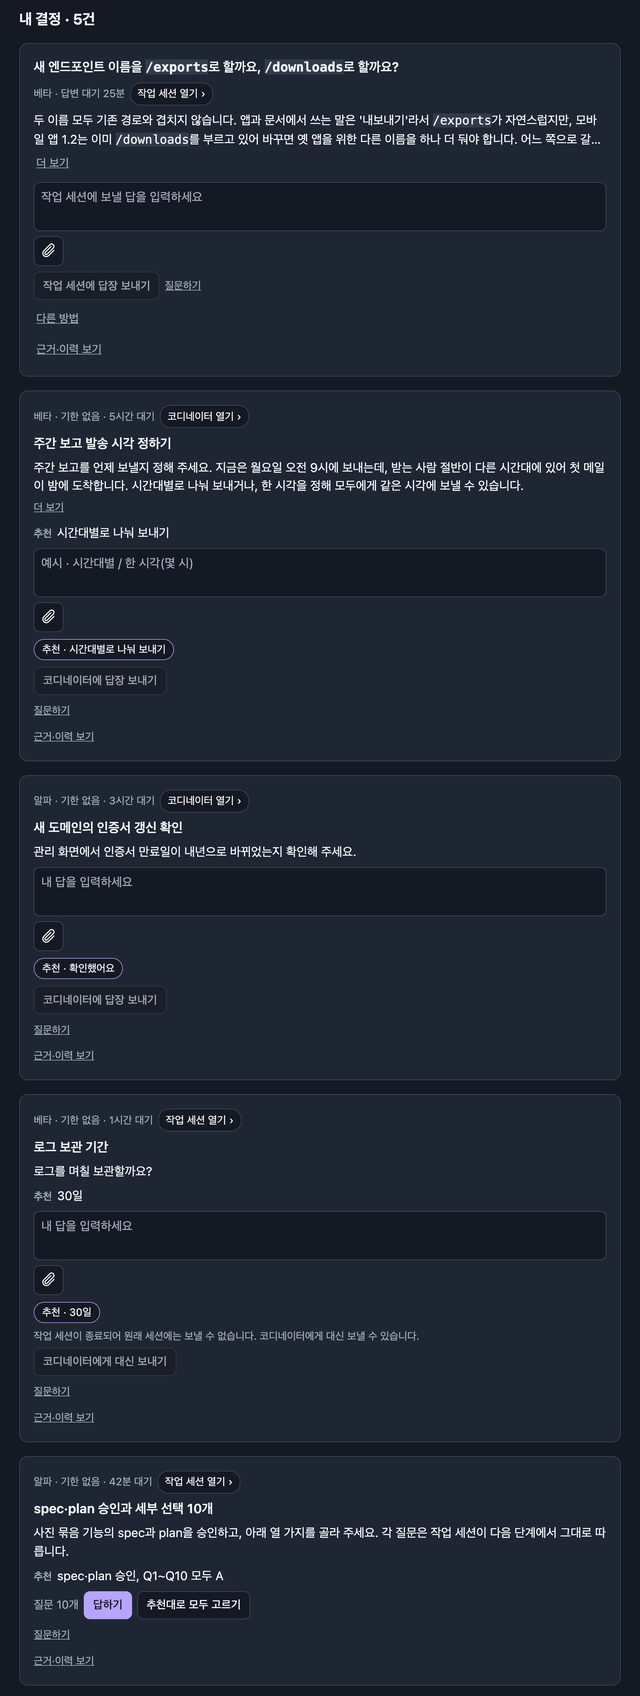
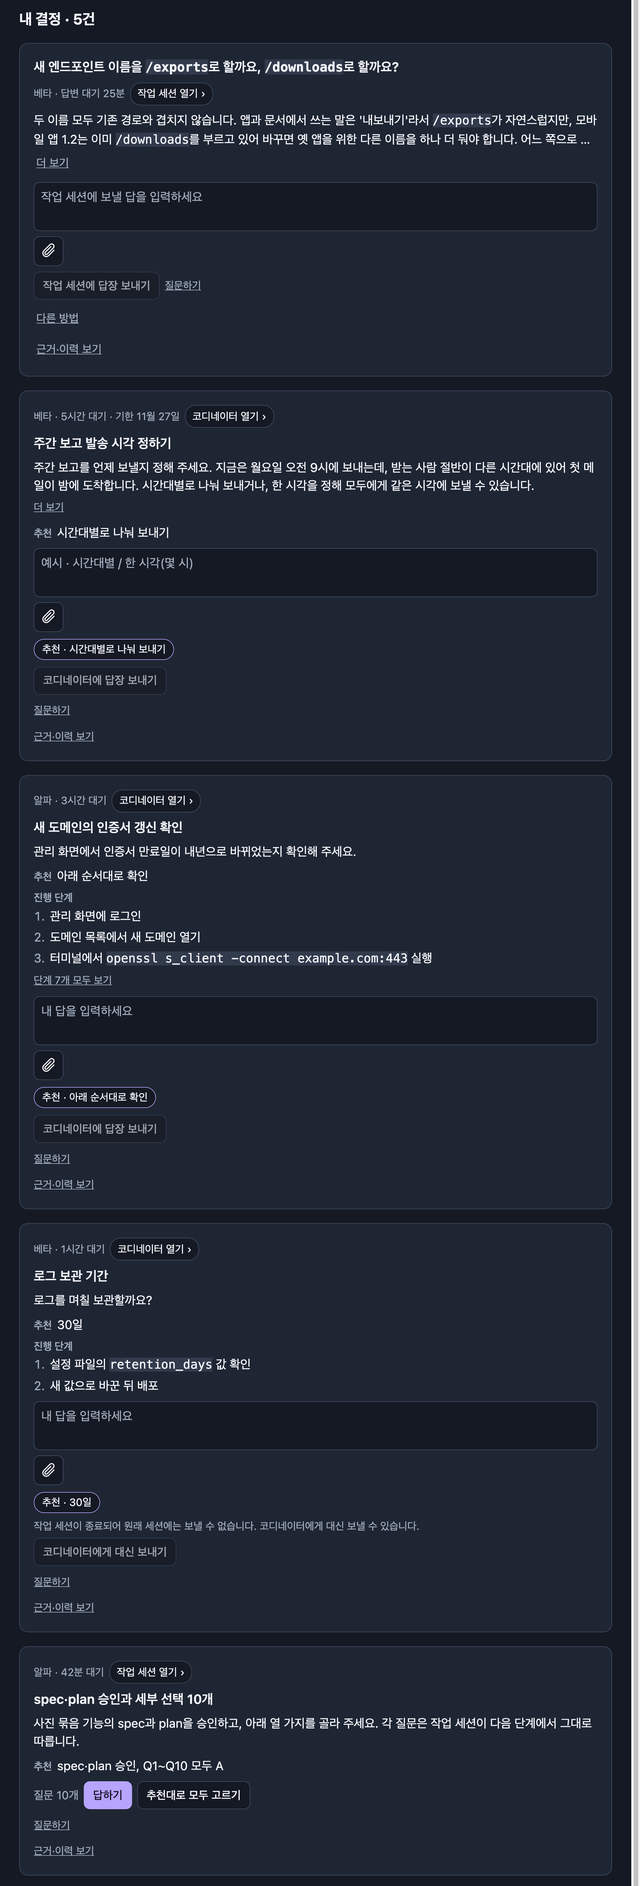
fix: 카드 리뷰 반영(단축키, 막힌 칩, 기한 날짜, 문답 위치)
- 한 질문씩 단계에서 보내기 단축키는 다음 질문으로 이동, 보내기는 요약에서만
- 받을 세션이 막히면 그 칩을 숨기고 열 수 있는 쪽(대신 받을 코디네이터, 살아 있는 작업 세션) 칩만 표시
- 원장 소유 정보가 없는 작업 세션 카드에 대신 받을 코디네이터 링크 연결
- 머리 줄은 대기 시간과 기한(있을 때만, 실제 날짜). 기한 없음 글자 제거
- 문답을 근거·이력 상자 안으로 이동(방금 보낸 질문은 질문하기 옆에 유지)
- 앱 화면 읽기 포커스를 sendAccessibilityEvent 로 짧은 지연 뒤 이동

diff --git a/client/tracked-decisions.tsx b/client/tracked-decisions.tsx
@@ -3,7 +3,7 @@ import { DecisionReplyInput } from "./decision-reply";
 import { SendButton } from "./send-input";
 import { useRpc } from "@getpaseo/plugin/client";
 import { useEffect, useRef, useState, type ReactNode } from "react";
-import { AccessibilityInfo, findNodeHandle, Platform, Pressable, Text, View } from "react-native";
+import { AccessibilityInfo, Platform, Pressable, Text, View } from "react-native";
 import {
   cancelQueuedReply, resolveTrackedDecision, mentionsSecurityGate, trackedAnswerLead, trackedAnswerText, trackedPullTarget, trackedReplyExample, usesSourceCoordinator,
   type TrackedDecision, type TrackedReplyBlock, type TrackedReplyReason, type TrackedReplyRoute,
@@ -20,7 +20,7 @@ import {
 } from "./tracked-reply-draft";
 import {
   advancesOnChoice, answerSummary, clampStep, firstOpenStep, foldsAsk, foldsCard, nextOpenStep, recommendAllPicks, trackedChipSide,
-  trackedReplyOffer, trackedSuggestion, usesSteps, visibleSteps, type Step,
+  recordHeaderParts, trackedReplyOffer, trackedSuggestion, usesSteps, visibleSteps, type Step,
 } from "./card-steps";
 import { ledgerChoiceGaps } from "../shared/choice-gaps";
 import { cardChoiceNotice } from "./choice-display";
@@ -37,8 +37,9 @@ export type TrackedOutcome = {
 // `fingerprint` is the revision on screen at the attempt.
 type Outcome = TrackedOutcome & { fingerprint: string };
 type Props = {
-  item: TrackedDecision; theme: Theme; priorityLabel?: string; route?: TrackedReplyRoute; blockedNote?: string; links: TrackedSessionLinks; children?: ReactNode; pull?: ReactNode;
-  renderClarification?: (onDraftChange:(active:boolean) => void, showHistory: boolean) => ReactNode;
+  item: TrackedDecision; theme: Theme; route?: TrackedReplyRoute; blockedNote?: string; links: TrackedSessionLinks; children?: ReactNode; pull?: ReactNode;
+  // "ask" is the question box beside the reply; "history" is the earlier questions and answers inside the evidence.
+  renderClarification?: (onDraftChange:((active:boolean) => void) | undefined, part: "ask" | "history") => ReactNode;
   // The digest row keeps an unsent reply as a receipt after the card leaves the list.
   keepsUnsent?: boolean;
   onResolved: (outcome: TrackedOutcome) => Promise<void> | void;
@@ -100,16 +101,16 @@ function TextButton({ label, accessibilityLabel, onPress, theme, expanded, disab
   </Pressable>;
 }
 
-// Moves screen reader and keyboard focus to a new question.
-function focusNode(node: unknown) {
+// Moves screen reader and keyboard focus to a new question. On the apps the screen reader is told after the new
+// question has laid out, since focus sent to a view that is still mounting is dropped.
+function focusNode(node: View | null) {
   if (!node) return;
-  if (Platform.OS === "web") { (node as { focus?: () => void }).focus?.(); return; }
-  const handle = findNodeHandle(node as Parameters<typeof findNodeHandle>[0]);
-  if (handle) AccessibilityInfo.setAccessibilityFocus(handle);
+  if (Platform.OS === "web") { (node as unknown as { focus?: () => void }).focus?.(); return; }
+  setTimeout(() => AccessibilityInfo.sendAccessibilityEvent(node, "focus"), 60);
 }
 
 // Keyed by card, not revision, so a display-only update keeps the draft, photos, current question and focus.
-export function TrackedDecisionCard({ item, theme, links, route, blockedNote, onResolved, children, pull, renderClarification, priorityLabel, keepsUnsent }: Props) {
+export function TrackedDecisionCard({ item, theme, links, route, blockedNote, onResolved, children, pull, renderClarification, keepsUnsent }: Props) {
   const { t } = useBoardLanguage();
   const resolve = useRpc(resolveTrackedDecision);
   const cancel = useRpc(cancelQueuedReply);
@@ -208,6 +209,7 @@ export function TrackedDecisionCard({ item, theme, links, route, blockedNote, on
   const unreachable = !offer.form;
   const stepped = usesSteps(item.questions);
   const step = clampStep(rawStep, item.questions.length);
+  const stepping = stepped && step !== "summary";
   const folded = foldsCard(item) && !opened && !hasAnswerDraft && !hasQuestionDraft;
   const inputFocus = useDecisionInteraction(canReply && !queue && !isClosed && !needsRefresh &&
     (hasDraft || editedReply !== null || Object.values(typed).some(value => value !== undefined) ||
@@ -218,7 +220,9 @@ export function TrackedDecisionCard({ item, theme, links, route, blockedNote, on
   const askFolds = foldsAsk(askLines);
   const steps = visibleSteps(item.steps, stepsOpen);
   const otherSide = trackedChipSide(item.where, route, { owner: !!links.owner, source: links.source?.kind });
+  // The evidence keeps the session links the header does not show, including one that can no longer take replies.
   const evidenceSide = otherSide === "owner" ? "source" : otherSide === "source" ? "owner" : undefined;
+  const evidenceLinks = !!(evidenceSide ? (evidenceSide === "owner" ? links.owner : links.source) : links.owner || links.source);
 
   useEffect(() => { if (moves) focusNode(questionHead.current); }, [moves]);
 
@@ -352,7 +356,9 @@ export function TrackedDecisionCard({ item, theme, links, route, blockedNote, on
     // Photos or a skip keep the extras open, so what the reply carries stays in view.
     const extrasHeld = photoCount(index) > 0 || !!skipped[index];
     const extrasOpen = !!more[index] || extrasHeld;
-    const input = <DecisionReplyInput {...inputFocus} send={sendReply} theme={theme} value={questionText[index]} disabled={busy} maxLength={4000}
+    // While answering one question at a time, the send shortcut moves to the next question. Sending waits for the summary.
+    const input = <DecisionReplyInput {...inputFocus} send={stepping ? { disabled: busy || !answered[index], onPress: () => go(nextOpenStep(answered, index)) } : sendReply}
+      theme={theme} value={questionText[index]} disabled={busy} maxLength={4000}
       accessibilityLabel={item.title + " · " + question.text + " · " + t("답장 내용", "Reply text")}
       onChangeText={text => { setTyped(previous => ({...previous,[index]:text})); setSelected(previous => ({...previous,[index]:[]})); }}
       placeholder={hasOptions ? t("선택하거나 직접 답을 입력하세요", "Choose an option or write your reply") : t("내 답을 입력하세요", "Write your reply")} />;
@@ -430,7 +436,7 @@ export function TrackedDecisionCard({ item, theme, links, route, blockedNote, on
 
   return <View style={{ gap: 7 }}>
     <View style={{ ...wrap, alignItems: "center" }}>
-      <Text selectable style={{ color: c.foregroundMuted, fontSize: 12 }}>{[source || t("보드 공통", "Board-wide"), priorityLabel].filter(Boolean).join(" · ")}</Text>
+      <Text selectable style={{ color: c.foregroundMuted, fontSize: 12 }}>{[source || t("보드 공통", "Board-wide"), ...recordHeaderParts(item, t)].join(" · ")}</Text>
       {otherSide && <TrackedSessionChips title={item.title} theme={theme} links={links} side={otherSide} role />}
     </View>
     <HistoryMarkdown theme={theme} source={isMerge ? t("PR 병합", "PR merge") : item.title} pullRepository={pullRepository} heading />
@@ -503,7 +509,7 @@ export function TrackedDecisionCard({ item, theme, links, route, blockedNote, on
           {t("질문이 생기기 전에 쓴 답입니다. 질문의 답과 함께 보내니 고치거나 빼 주세요.", "You wrote this before the card had questions. It is sent with your answers, so edit or remove it.")}
         </Text>}
         <PhotoComposer theme={theme} disabled={busy} draft={attachments}>
-          <DecisionReplyInput {...inputFocus} send={sendReply} theme={theme}
+          <DecisionReplyInput {...inputFocus} send={stepping ? { disabled: true, onPress: () => {} } : sendReply} theme={theme}
             accessibilityLabel={item.title + " · " + (carried ? t("질문이 생기기 전에 쓴 답", "Reply written before the questions") : t("답장 내용", "Reply text"))}
             value={freeReply} disabled={busy} maxLength={4000} onChangeText={value => setEditedReply(value)}
             placeholder={example ? t("예시 · ", "Example · ") + example : t("내 답을 입력하세요", "Write your reply")} />
@@ -562,12 +568,12 @@ export function TrackedDecisionCard({ item, theme, links, route, blockedNote, on
         </View>}
       </View>}
     </View>}
-    {canReply && showForm && renderClarification && <View style={{ ...wrap, alignItems: "center" }}>{renderClarification(setHasQuestionDraft, expanded)}</View>}
+    {canReply && showForm && renderClarification && <View style={{ ...wrap, alignItems: "center" }}>{renderClarification(setHasQuestionDraft, "ask")}</View>}
     <TextButton theme={theme} expanded={expanded} label={expanded ? t("근거·이력 접기", "Hide evidence and history") : t("근거·이력 보기", "Evidence and history")}
       accessibilityLabel={named(expanded ? t("결정 상세 접기", "Hide decision details") : t("결정 상세 보기", "View decision details")).accessibilityLabel}
       onPress={() => setExpanded(value => !value)} />
     {expanded && <View style={{ gap: 8, padding: 8, borderRadius: 7, backgroundColor: c.surface0 }}>
-      {evidenceSide && <View style={{ ...wrap, alignItems: "center" }}><TrackedSessionChips title={item.title} theme={theme} links={links} side={evidenceSide} /></View>}
+      {evidenceLinks && <View style={{ ...wrap, alignItems: "center" }}><TrackedSessionChips title={item.title} theme={theme} links={links} side={evidenceSide} /></View>}
       {links.owner && item.sourceCoordinatorId && <Text selectable style={{color:c.foregroundMuted,fontSize:12}}>
         {t("운영 코디네이터 세션 ID","Operating coordinator session ID")} · {item.sourceCoordinatorId}
       </Text>}
@@ -590,6 +596,7 @@ export function TrackedDecisionCard({ item, theme, links, route, blockedNote, on
           <Text selectable style={{ color: c.foregroundMuted }}>{entry.a ? [t("답", "Answer"), entry.answeredAt, entry.a].filter(Boolean).join(" · ") : t("답변 대기", "Awaiting reply")}</Text>
         </View>)}
       </View>}
+      {canReply && showForm && renderClarification?.(undefined, "history")}
       <Lines theme={theme} pullRepository={pullRepository} title={t("이전 답변", "Previous replies")} lines={item.replyHistory.map(entry => [entry.at, entry.text].filter(Boolean).join(" · "))} />
     </View>}
     {notice && <Text accessibilityLiveRegion="polite" style={{ color: isClosed ? c.statusSuccess : c.statusWarning }}>{notice}</Text>}

diff --git a/client/board.tsx b/client/board.tsx
@@ -212,18 +212,18 @@ export function BoardView({ snapshot, readiness, theme, layout, hostLabel, hostI
     setInlineReceipts(previous => previous.some(entry => entry.actionKey === action.actionKey && entry.rowKey === action.rowKey)
       ? previous : [...previous, { ...action, order: orderedKeys }]);
   }
-  function questionFor(card: ClarificationCard | null, title: string, prior?: TrackedDecision["qa"], onDraftChange?: (active:boolean) => void, ownerId?: string | null, notice?: ChoiceNotice | null, showHistory = true) {
+  function questionFor(card: ClarificationCard | null, title: string, prior?: TrackedDecision["qa"], onDraftChange?: (active:boolean) => void, ownerId?: string | null, notice?: ChoiceNotice | null, part: "all" | "ask" | "history" = "all") {
     if (!snapshot) return null;
     const recipientId = card ? clarificationRecipient(card, snapshot) : null;
     const recipientTitle = ownerId && ownerId === recipientId ? t("운영 코디네이터", "Ledger owner") + " · " + ownerId
       : snapshot.sessions.find(row => row.id === recipientId)?.title;
     const toCoordinator = !!recipientId && (recipientId === snapshot.coordinator || recipientId === ownerId);
     return <Clarification key={card ? clarificationKey(card) : title} title={title} card={card} theme={theme} suggestion={choiceRequest(notice ?? null, toCoordinator)}
-      recipientId={recipientId} recipientTitle={recipientTitle} entries={snapshot.clarifications ?? []} prior={prior} onRefresh={onRefresh} onDraftChange={onDraftChange} showHistory={showHistory} />;
+      recipientId={recipientId} recipientTitle={recipientTitle} entries={snapshot.clarifications ?? []} prior={prior} onRefresh={onRefresh} onDraftChange={onDraftChange} part={part} />;
   }
   const renderDecision = (card: Card, embedded = false, rowKey?: string, priority?: string) => <DecisionActions key={JSON.stringify([card.session.projectId, card.session.id, card.session.decision?.version])}
-          clarification={embedded ? undefined : showHistory => questionFor(sessionClarificationCard(card.session,card.note),card.session.title,undefined,undefined,undefined,
-            card.session.decision?.source === "conversation" ? decisionChoiceNotice(card.session.decision) : null, showHistory)}
+          clarification={embedded ? undefined : part => questionFor(sessionClarificationCard(card.session,card.note),card.session.title,undefined,undefined,undefined,
+            card.session.decision?.source === "conversation" ? decisionChoiceNotice(card.session.decision) : null, part)}
           embedded={embedded} priorityLabel={priority} card={card} hostLabel={card.session.assignment?.label ?? hostLabel} theme={theme} coordinator={snapshot!.coordinator} coordinatorTitle={snapshot!.sessions.find(s => s.id === snapshot!.coordinator)?.title}
           open={actions.onOpen} receipt={receipts.find(r => matches(r, card))}
           pendingRequests={card.session.nativePending && !card.session.serverId && hostId ? <PendingRequests key={JSON.stringify([hostId, card.session.id])} hostId={hostId}
@@ -240,9 +240,11 @@ export function BoardView({ snapshot, readiness, theme, layout, hostLabel, hostI
             setReceipts(prior => [result, ...prior.filter(r => !(r.projectId === result.projectId && r.sessionId === result.sessionId))].slice(0, 20));
             onRefresh();
           }} />;
-  function recordLinks(item: TrackedDecision, showSource = true): TrackedSessionLinks {
+  // `fallbackId` is the coordinator a work session card's reply goes to instead. With no ledger owner, its chip is the
+  // owner link, so a card whose work session ended can still open the session that would take the reply.
+  function recordLinks(item: TrackedDecision, showSource = true, fallbackId?: string | null): TrackedSessionLinks {
     if (!snapshot) return {};
-    const ownerId = trackedSessionOwner(item, snapshot.coordinator);
+    const ownerId = trackedSessionOwner(item, snapshot.coordinator) ?? fallbackId ?? undefined;
     const open = actions.onOpen;
     const listed = snapshot.sessions.some(session => session.id === ownerId);
     const owner = ownerId && open && (ownerId === snapshot.coordinator || listed || hostId) ? {
@@ -302,9 +304,9 @@ export function BoardView({ snapshot, readiness, theme, layout, hostLabel, hostI
           const route = native && !item.questions.length ? undefined : trackedReplyRoute(item,snapshot!.coordinator,snapshot!.sessions,folders);
           // A card offers its fallback only when it has no recipient.
           const reaches = route?.recipientId ?? route?.fallbackId;
-          return <TrackedDecisionCard links={recordLinks(item, !native)} key={item.key} item={item} theme={theme} priorityLabel={priority}
-            renderClarification={(onDraftChange, showHistory) => questionFor(trackedClarificationCard(item,snapshot!.sessions),item.title,item.qa,onDraftChange,usesSourceCoordinator(item) ? item.sourceCoordinatorId : undefined,
-              item.kind === "merge" ? null : cardChoiceNotice(ledgerChoiceGaps(item)), showHistory)}
+          return <TrackedDecisionCard links={recordLinks(item, !native, route?.fallbackId)} key={item.key} item={item} theme={theme}
+            renderClarification={(onDraftChange, part) => questionFor(trackedClarificationCard(item,snapshot!.sessions),item.title,item.qa,onDraftChange,usesSourceCoordinator(item) ? item.sourceCoordinatorId : undefined,
+              item.kind === "merge" ? null : cardChoiceNotice(ledgerChoiceGaps(item)), part)}
             pull={rowKey && item.mergeTarget && scopedReceipts.some(receipt => receipt.rowKey === rowKey && receipt.actionKey === pullRowKey(item.mergeTarget!)) ? <></>
               : pr && renderPull(pr, pr.projectIds.includes(item.projectId ?? "") ? item.projectId! : pr.projectIds[0], true, mentionsSecurityGate(item), true, rowKey, [item.projectId])}
             route={route} keepsUnsent={!!rowKey}

diff --git a/client/clarification.tsx b/client/clarification.tsx
@@ -14,14 +14,15 @@ import type { ChoiceRequest } from "./choice-display";
 type Props = {
   card: ClarificationCard | null; title: string; theme: Theme; recipientId: string | null; recipientTitle?: string;
   entries: ClarificationEntry[]; prior?: TrackedDecision["qa"]; onRefresh: () => void; onDraftChange?: (active:boolean) => void;
-  // A card folds its questions and answers into its evidence. The thread shows when that is open, or once the person
-  // asks here, so the answer is not missed.
-  showHistory?: boolean;
+  // A card can split the box: "ask" is the button and editor beside the reply, and "history" is the earlier questions
+  // and answers inside the card's evidence. A question asked in "ask" stays there until the board lists it, so its
+  // answer is not missed.
+  part?: "all" | "ask" | "history";
   /** A ready question this card suggests. The button only fills the box; the person sends it. */
   suggestion?: ChoiceRequest | null;
 };
 
-export function Clarification({card,title,theme,recipientId,recipientTitle,entries,prior = [],onRefresh,onDraftChange,suggestion,showHistory = true}:Props) {
+export function Clarification({card,title,theme,recipientId,recipientTitle,entries,prior = [],onRefresh,onDraftChange,suggestion,part = "all"}:Props) {
   const {t} = useBoardLanguage();
   const ask = useRpc(askClarification);
   const photos = usePhotoDraft();
@@ -77,6 +78,21 @@ export function Clarification({card,title,theme,recipientId,recipientTitle,entri
     } catch { setError(true); }
     finally { sending.current = false; setBusy(false); onRefresh(); }
   }
+  const historyBox = (history.length > 0 || prior.length > 0) && <View style={{width:"100%",gap:7,padding:8,borderRadius:6,backgroundColor:c.surface0}}>
+      <Text accessibilityRole="header" style={{color:c.foreground,fontWeight:"600"}}>{t("문답","Questions and answers")}</Text>
+      {hidden > 0 && <Button theme={theme} label={t(`이전 문답 더 보기 · ${hidden}건`, `Show earlier questions · ${hidden}`)} onPress={() => setVisibleCount(count => count + 5)} />}
+      {prior.slice(hidden).map((row,index) => <View key={index+hidden} style={{gap:2}}>
+        <HistoryMarkdown theme={theme} source={"Q. " + row.q} />
+        {row.a ? <HistoryMarkdown theme={theme} source={"A. " + row.a} /> : <Text style={{color:c.foregroundMuted}}>{t("답변 대기","Awaiting reply")}</Text>}
+      </View>)}
+      {history.slice(Math.max(0,hidden-prior.length)).map(entry => <View key={entry.messageId} style={{gap:2}}>
+        {!!entry.question && <HistoryMarkdown theme={theme} source={"Q. " + entry.question} />}
+        {!!entry.imageCount && <Text style={{color:c.foregroundMuted,fontSize:12}}>{t(`질문에 첨부한 사진 ${entry.imageCount}장`, `${entry.imageCount} photo(s) attached to question`)}</Text>}
+        {entry.response ? <HistoryMarkdown theme={theme} source={"A. " + entry.response} />
+          : <Text accessibilityLiveRegion="polite" style={{color:c.foregroundMuted}}>{entry.status === "pending" ? t("전송 확인 중","Confirming delivery") : t("답변 대기","Awaiting reply")}</Text>}
+      </View>)}
+    </View>;
+  if (part === "history") return historyBox || null;
   return <>
     {/* A small text button: asking first is the less common path beside the reply. */}
     <Pressable accessibilityRole="button" accessibilityLabel={label("질문하기", "Ask a question")} accessibilityState={{expanded,disabled:busy || photos.reading}}
@@ -99,19 +115,6 @@ export function Clarification({card,title,theme,recipientId,recipientTitle,entri
           send={sendQuestion} selected /></View>
       </>}
     </View>}
-    {(showHistory || sent.length > 0) && (history.length > 0 || prior.length > 0) && <View style={{width:"100%",gap:7,padding:8,borderRadius:6,backgroundColor:c.surface0}}>
-      <Text accessibilityRole="header" style={{color:c.foreground,fontWeight:"600"}}>{t("문답","Questions and answers")}</Text>
-      {hidden > 0 && <Button theme={theme} label={t(`이전 문답 더 보기 · ${hidden}건`, `Show earlier questions · ${hidden}`)} onPress={() => setVisibleCount(count => count + 5)} />}
-      {prior.slice(hidden).map((row,index) => <View key={index+hidden} style={{gap:2}}>
-        <HistoryMarkdown theme={theme} source={"Q. " + row.q} />
-        {row.a ? <HistoryMarkdown theme={theme} source={"A. " + row.a} /> : <Text style={{color:c.foregroundMuted}}>{t("답변 대기","Awaiting reply")}</Text>}
-      </View>)}
-      {history.slice(Math.max(0,hidden-prior.length)).map(entry => <View key={entry.messageId} style={{gap:2}}>
-        {!!entry.question && <HistoryMarkdown theme={theme} source={"Q. " + entry.question} />}
-        {!!entry.imageCount && <Text style={{color:c.foregroundMuted,fontSize:12}}>{t(`질문에 첨부한 사진 ${entry.imageCount}장`, `${entry.imageCount} photo(s) attached to question`)}</Text>}
-        {entry.response ? <HistoryMarkdown theme={theme} source={"A. " + entry.response} />
-          : <Text accessibilityLiveRegion="polite" style={{color:c.foregroundMuted}}>{entry.status === "pending" ? t("전송 확인 중","Confirming delivery") : t("답변 대기","Awaiting reply")}</Text>}
-      </View>)}
-    </View>}
+    {(part === "all" || sent.length > 0) && historyBox}
   </>;
 }

diff --git a/test/card-steps.test.ts b/test/card-steps.test.ts
@@ -3,7 +3,7 @@ import { readdirSync, readFileSync } from "node:fs";
 import { join } from "node:path";
 import {
   advancesOnChoice, answerSummary, clampStep, firstOpenStep, foldsAsk, foldsCard, isHumanCheck, nextOpenStep, recommendAllPicks,
-  trackedChipSide, trackedReplyOffer, trackedSuggestion, usesSteps, visibleSteps,
+  recordHeaderParts, trackedChipSide, trackedReplyOffer, trackedSuggestion, usesSteps, visibleSteps,
 } from "../client/card-steps";
 import { optionId } from "../client/tracked-reply-draft";
 import { trackedDecisionSchema, type TrackedDecision } from "../shared/tracked-decisions";
@@ -115,7 +115,10 @@ test("the card shows one chip: the session that takes the reply, or the one that
     ({ targetId: recipientId, recipientId, fallbackId, ...(blocked ? { blocked } : {}) }) as Parameters<typeof trackedChipSide>[1];
   // A coordinator card opens the coordinator. The work session moves to the evidence.
   expect(trackedChipSide("manager", route("owner"), both)).toBe("owner");
-  expect(trackedChipSide("human", route(null, "closed"), both)).toBe("owner");
+  // A coordinator that cannot take the reply loses its chip. The work session can still be opened.
+  expect(trackedChipSide("human", route(null, "closed"), both)).toBe("source");
+  expect(trackedChipSide("manager", route(null, "error"), { owner: true, source: undefined })).toBeNull();
+  expect(trackedChipSide("manager", route(null, "error"), { owner: true, source: "unavailable" })).toBeNull();
   expect(trackedChipSide("human", route(null, "owner-unverified"), { owner: false, source: "local" })).toBe("source");
   // A work session card opens the work session.
   expect(trackedChipSide("session", route("worker"), both)).toBe("source");
@@ -126,7 +129,9 @@ test("the card shows one chip: the session that takes the reply, or the one that
   expect(trackedChipSide("session", route(null, "other-host", "owner"), { owner: true, source: "remote" })).toBe("source");
   expect(trackedChipSide("session", route(null, "other-project", "owner"), both)).toBe("source");
   expect(trackedChipSide("session", route(null, "other-host", "owner"), { owner: true, source: "unavailable" })).toBe("owner");
-  expect(trackedChipSide("session", route(null, "closed"), { owner: false, source: "local" })).toBe("source");
+  // An ended work session keeps no chip of its own. With no coordinator to open, only the reason shows.
+  expect(trackedChipSide("session", route(null, "closed"), { owner: false, source: "local" })).toBeNull();
+  expect(trackedChipSide("session", route(null, "error", "owner"), { owner: true, source: "local" })).toBe("owner");
   expect(trackedChipSide("session", undefined, { owner: false, source: undefined })).toBeNull();
 });
 
@@ -176,4 +181,21 @@ test("steps sit under the recommendation and leave the folded evidence", () => {
   // Rendered right after the one-line recommendation, before the reply form.
   expect(face.indexOf("steps.shown.map")).toBeGreaterThan(face.indexOf('t("추천", "Recommendation")'));
   expect(face.indexOf("steps.shown.map")).toBeLessThan(face.indexOf("{queue && <View"));
+});
+
+test("the header shows how long the card waited and its due date only when it has one", () => {
+  const now = new Date(2026, 10, 25, 12, 0).getTime();
+  const at = (days: number, hours = 0) => new Date(2026, 10, 25 + days, 12 + hours).toISOString();
+  expect(recordHeaderParts({ since: at(0, -3), dueAt: null }, ko, now)).toEqual(["3시간 대기"]);
+  expect(recordHeaderParts({ since: at(0, -3), dueAt: null }, en, now)).toEqual(["waiting 3h"]);
+  // No due date: no "No deadline" text.
+  expect(recordHeaderParts({ since: undefined, dueAt: undefined }, ko, now)).toEqual([]);
+  expect(recordHeaderParts({ since: undefined, dueAt: "2026-11-27" }, ko, now)).toEqual(["기한 11월 27일"]);
+  expect(recordHeaderParts({ since: undefined, dueAt: "2026-11-27" }, en, now)).toEqual(["Due Nov 27"]);
+  // A date-only due day is not overdue until the day ends.
+  expect(recordHeaderParts({ since: undefined, dueAt: "2026-11-25" }, ko, now)).toEqual(["기한 11월 25일"]);
+  expect(recordHeaderParts({ since: undefined, dueAt: "2026-11-24" }, en, now)).toEqual(["Overdue · Nov 24"]);
+  const timed = new Date(2026, 10, 25, 15, 30).toISOString();
+  expect(recordHeaderParts({ since: undefined, dueAt: timed }, ko, now)).toEqual(["기한 11월 25일 15:30"]);
+  expect(recordHeaderParts({ since: at(-2), dueAt: "not a date" }, ko, now)).toEqual(["2일 대기"]);
 });

diff --git a/client/card-steps.ts b/client/card-steps.ts
@@ -1,4 +1,5 @@
 import type { TrackedDecision, TrackedReplyRoute } from "../shared/tracked-decisions";
+import { dueTime, waitStart } from "../shared/decision-priority";
 import { optionId, recommendedChoices, recommendedTrackedReply } from "./tracked-reply-draft";
 
 type Translate = (korean: string, english: string) => string;
@@ -84,19 +85,18 @@ type Sources = { owner: boolean; source: "local" | "remote" | "unavailable" | un
 // A blocked work session that is still alive elsewhere can be opened to answer there.
 const reachable = new Set(["other-host", "other-project"]);
 
-// Which session the card's one chip opens. It is the session that takes the reply. When that session cannot,
-// the chip opens the one that still can: the coordinator a fallback goes to, or a live session elsewhere.
+// Which session the card's one chip opens. It is the session that takes the reply. When that session cannot, its chip
+// is hidden and the chip opens the one that still can: the coordinator a redirected reply goes to (the owner link), or
+// a live work session on another host or project. With neither, the card shows only the reason.
 export function trackedChipSide(where: TrackedDecision["where"], route: TrackedReplyRoute | undefined, links: Sources): "owner" | "source" | null {
-  const source = links.source && links.source !== "unavailable";
-  const pick = (first: "owner" | "source") => {
-    const available = { owner: links.owner, source };
-    const other = first === "owner" ? "source" : "owner";
-    return available[first] ? first : available[other] ? other : null;
-  };
-  if (where === "manager" || where === "human") return pick("owner");
+  const source = !!links.source && links.source !== "unavailable";
   const blocked = route?.blocked;
-  if (!blocked || reachable.has(blocked)) return pick("source");
-  return pick("owner");
+  if (where === "manager" || where === "human") {
+    if (!blocked) return links.owner ? "owner" : source ? "source" : null;
+    return source ? "source" : null;
+  }
+  if (!blocked || reachable.has(blocked)) return source ? "source" : links.owner ? "owner" : null;
+  return links.owner ? "owner" : null;
 }
 
 // What a card offers for its reply. The board only sends: to the session that takes the reply, or, when that session
@@ -112,4 +112,29 @@ export function trackedReplyOffer(route: Pick<TrackedReplyRoute, "recipientId" |
 export function visibleSteps(steps: readonly string[], expanded: boolean) {
   if (expanded || steps.length <= 5) return { shown: [...steps], more: 0 };
   return { shown: steps.slice(0, 3), more: steps.length };
+}
+
+const months = ["Jan", "Feb", "Mar", "Apr", "May", "Jun", "Jul", "Aug", "Sep", "Oct", "Nov", "Dec"];
+function waitText(minutes: number, t: Translate) {
+  if (minutes < 1) return t("1분 미만 대기", "waiting <1m");
+  if (minutes < 60) return t(`${minutes}분 대기`, `waiting ${minutes}m`);
+  const hours = Math.floor(minutes / 60);
+  if (hours < 24) return t(`${hours}시간 대기`, `waiting ${hours}h`);
+  return t(`${Math.floor(hours / 24)}일 대기`, `waiting ${Math.floor(hours / 24)}d`);
+}
+
+// The card header after the project: how long the card has waited, then its due date when it has one, as a date.
+export function recordHeaderParts(item: Pick<TrackedDecision, "since" | "dueAt">, t: Translate, now = Date.now()) {
+  const parts: string[] = [];
+  const since = waitStart(item.since, now);
+  if (since !== null && Number.isFinite(since)) parts.push(waitText(Math.floor((now - since) / 60_000), t));
+  const due = dueTime(item.dueAt);
+  if (due) {
+    const day = new Date(due.at);
+    const clock = due.timed ? " " + String(day.getHours()).padStart(2, "0") + ":" + String(day.getMinutes()).padStart(2, "0") : "";
+    const ko = `${day.getMonth() + 1}월 ${day.getDate()}일${clock}`, en = `${months[day.getMonth()]} ${day.getDate()}${clock}`;
+    const end = due.timed ? due.at : new Date(day.getFullYear(), day.getMonth(), day.getDate(), 23, 59, 59, 999).getTime();
+    parts.push(end <= now ? t(`기한 지남 · ${ko}`, `Overdue · ${en}`) : t(`기한 ${ko}`, `Due ${en}`));
+  }
+  return parts;
 }

diff --git a/client/decision-actions.tsx b/client/decision-actions.tsx
@@ -37,7 +37,7 @@ export function DecisionActions({ card, theme, hostLabel, coordinator, coordinat
   card: Card; theme: Theme; hostLabel?: string; coordinator: string | null; coordinatorTitle?: string; open?: (id: string) => void;
   onSent: (result: DecisionReceipt) => void; receipt?: DecisionReceipt; pendingRequests?: ReactNode; priorityLabel?: string; embedded?: boolean;
   // The question box. Its earlier questions and answers show with the card's evidence.
-  clarification?: (showHistory: boolean) => ReactNode;
+  clarification?: (part: "ask" | "history") => ReactNode;
 }) {
   const { t, language } = useBoardLanguage();
   const { session } = card;
@@ -72,7 +72,7 @@ export function DecisionActions({ card, theme, hostLabel, coordinator, coordinat
   // The header keeps the project and how long the card has waited. The session and host move to the evidence.
   const marker = [session.projectTitle, priorityLabel].filter(Boolean).join(" · ");
   const origin = [session.title, hostLabel && t(`실행 호스트 · ${hostLabel}`, `Host · ${hostLabel}`), session.sourceProjectTitle && t(`원래 소속 ${session.sourceProjectTitle}`, `From ${session.sourceProjectTitle}`)].filter(Boolean).join(" · ");
-  const clarification = renderClarification?.(showEvidence);
+  const clarification = renderClarification?.("ask");
   const named = (label: string) => ({ label, accessibilityLabel: `${session.title} · ${label}` });
 
   function selectReply(index: number | null) {
@@ -208,6 +208,7 @@ export function DecisionActions({ card, theme, hostLabel, coordinator, coordinat
         <HistoryMarkdown theme={theme} source={decision.recommendationReason} />
       </View>}
       {showEvidence && sourceExcerpts.map(text => <HistoryMarkdown key={text} theme={theme} source={text} muted />)}
+      {showEvidence && renderClarification?.("history")}
     </View>
     {receipt && <ReceiptText receipt={receipt} theme={theme} />}
     {!!error && <Text accessibilityLiveRegion="polite" selectable style={{ color: c.statusDanger }}>{t(...error)}</Text>}

diff --git a/shared/decision-priority.ts b/shared/decision-priority.ts
@@ -16,6 +16,12 @@ function timestamp(value: string | null | undefined, endOfDay = false) {
   return instant.safeParse(value).success ? Date.parse(value) : NaN;
 }
 
+// A due date as the card shows it: the instant, and whether it named a time or only a day.
+export function dueTime(value: string | null | undefined) {
+  const at = timestamp(value);
+  return Number.isFinite(at) ? { at, timed: value!.length !== 10 } : null;
+}
+
 export function waitStart(value: string | null | undefined, now: number) {
   const at = timestamp(value);
   return at <= now ? at : null;
